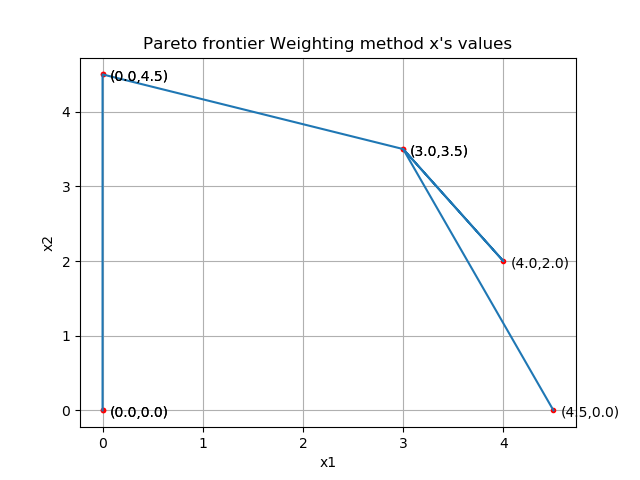
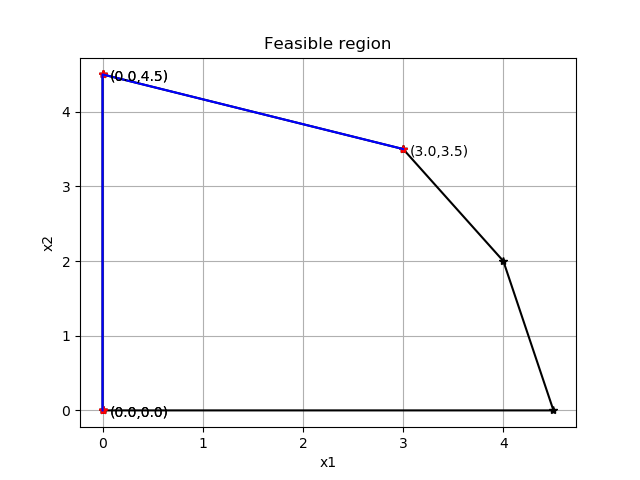
Polished functions.py

diff --git a/P2/functions.py b/P2/functions.py
@@ -3,33 +3,38 @@ import numpy as np
 import matplotlib.pyplot as plt
 
 
-def [fig1, ax1] = feasPlot( A, B, x1, x2):
+def feasPlot( A, B, x1, x2):
+    Feas1 = [None] + x1
+    Feas2 = [None] + x2
     for i in range(len(A)):
         t = np.arange(0,len(A),1)
         t = np.delete(t, i)
-        print(t)
         z = np.linalg.solve(A[t],B[t])
         temp = A[i,0]*z[0]+A[i,1]*z[1]-B[i]
         if temp <= 0:
-            x1.append(z[0])
-            x2.append(z[1])
+            Feas1 = np.append(Feas1, z[0])
+            Feas2 = np.append(Feas2, z[1])
     for j in range(1):
         for i in range(len(A)):
             z = np.array([0.,0.])
             z[j] = B[i]/A[i,j]
             temp = A[0:,0]*z[0]+A[0:,1]*z[1]-B
             if temp[0] <= 0 and temp[1] <= 0 and temp[2] <= 0:
-                x1.append(z[0])
-                x2.append(z[1])
+                Feas1 = np.append(Feas1, z[0])
+                Feas2 = np.append(Feas2, z[1])
     fig1, ax1 = plt.subplots()
-    s = np.argsort(x1)
+    Feas1 = np.delete(Feas1, 0)
+    Feas2 = np.delete(Feas2, 0)
+    s = np.argsort(Feas1)
     s = np.append(s,0)
-    x1 = np.array(x1)
-    x2 = np.array(x2)
-    ax1.plot(x1[s],x2[s],'.k')
-    ax1.plot(x1[s],x2[s],'k'),linewi
+    Feas1 = np.array(Feas1)
+    Feas2 = np.array(Feas2)
+    ax1.plot(Feas1[s],Feas2[s],'*k')
+    ax1.plot(Feas1[s],Feas2[s],'k',linewidth=1.5)
     ax1.set_title('Feasible region')
     ax1.set_xlabel('x1')
     ax1.set_ylabel('x2')
     ax1.grid(True)
     #plt.savefig('test.png')
+    return (fig1, ax1)
+  

diff --git a/P2/main_weighting.py b/P2/main_weighting.py
@@ -24,8 +24,7 @@ print(obj_file)
 print(c_file)
 print(A)
 print(B)
-print(np.array(obj_file))
-print(np.array(c_file))
+
 
 # Create the model
 model = ConcreteModel()
@@ -52,15 +51,17 @@ for z in np.linspace(0,1,5):
     z2.append(value(model.x['x1'])*value(obj_file['x1'][1])+value(model.x['x2'])*value(obj_file['x2'][1]))
     model.del_component(model.obj)
 
-a=np.array([[2.,6.],[3.,2.],[4.,1.]])
-b=np.array([27.,16.,18.])
+
+arr = np.array(c_file)
+a = np.array(arr[:,[0,1]], dtype='float')
+b = np.array(arr[:,3], dtype='float')
+
+
 fig1, ax1 = feasPlot(a,b,x1,x2)
 
-
-#fig1, ax1 = plt.subplots()
-ax1.plot(x1,x2,'.r')
+ax1.plot(x1,x2,'*r')
 ax1.plot(x1,x2,'b')
-ax1.set_title('Pareto frontier Weighting method x\'s values')
+#ax1.set_title('Pareto frontier Weighting method x\'s values')
 ax1.set_xlabel('x1')
 ax1.set_ylabel('x2')
 ax1.grid(True)

diff --git a/P2/main_constraint.py b/P2/main_constraint.py
@@ -1,0 +1,10 @@
+# P2: Bi-Objective linear optimization problem Constraint method
+
+import csv
+import pandas
+import os
+import fnmatch
+import numpy as np
+import matplotlib.pyplot as plt
+from pyomo.environ import *
+from functions import feasPlot
